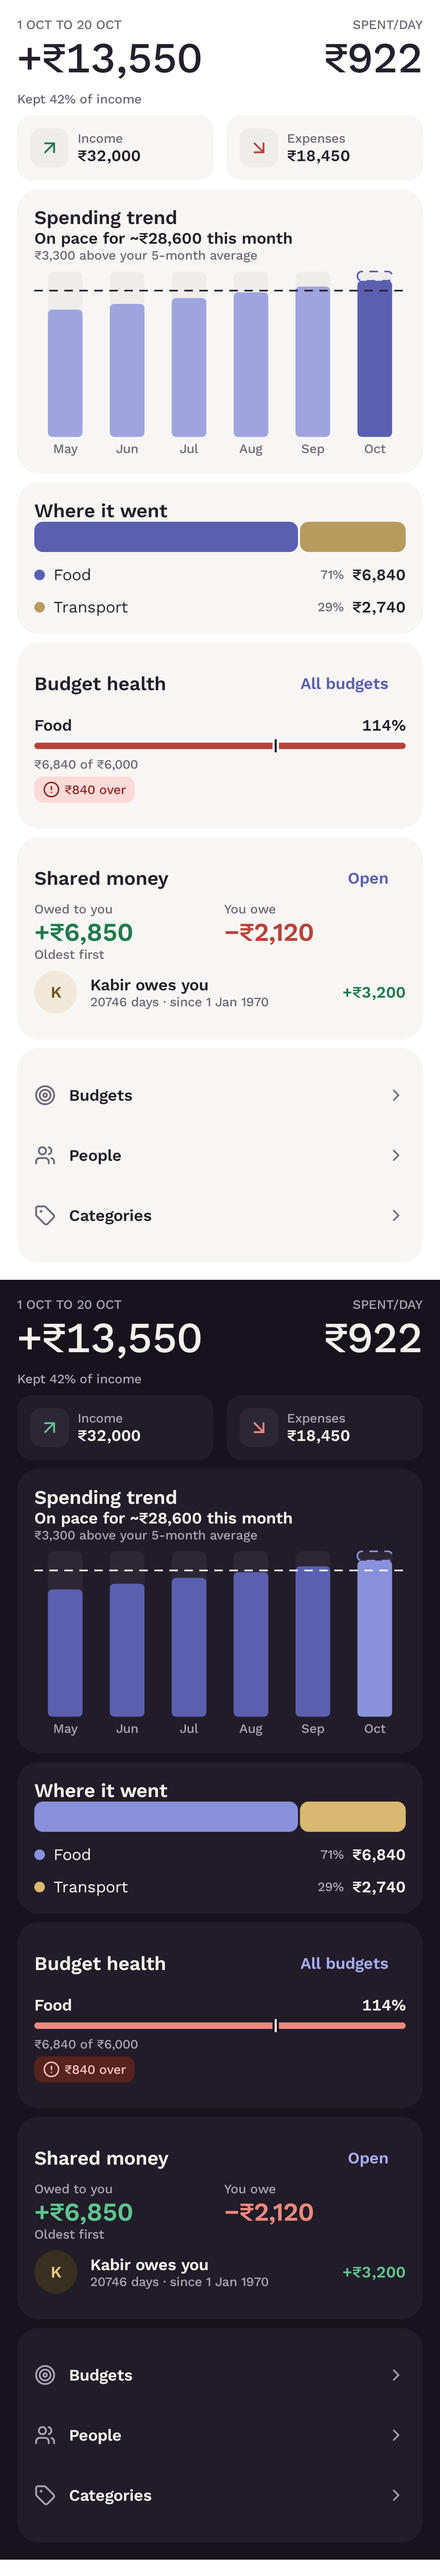
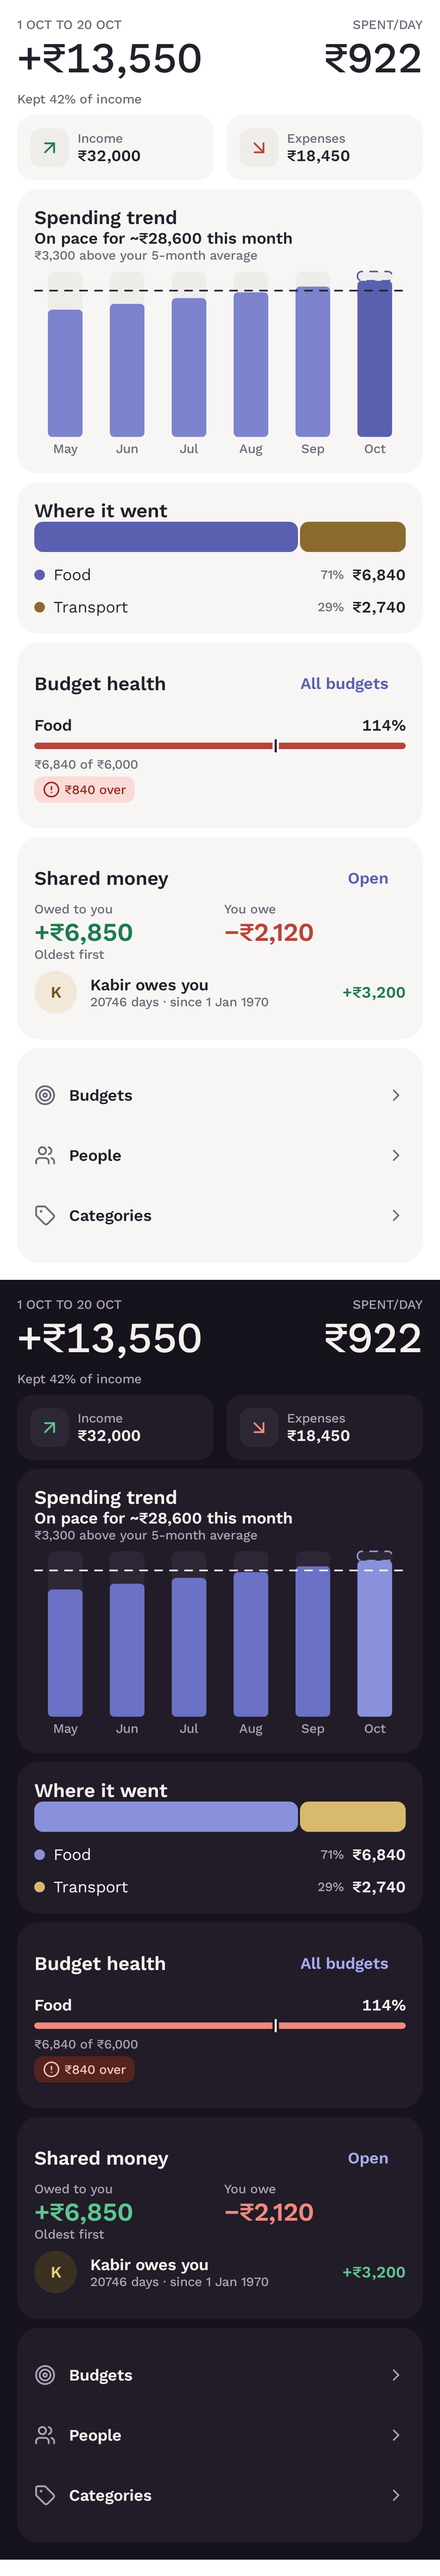
Accessibility: chart contrast and large-font checks (#70)
- Chart colours reach 3:1 in all four palettes, with a test
- Large-font (200%) screenshots of six screens added to the screenshot tests
- Transactions: the next-month arrow was pushed off the switcher at large font

diff --git a/app/src/main/java/com/saadm/zenith/ui/theme/Color.kt b/app/src/main/java/com/saadm/zenith/ui/theme/Color.kt
@@ -59,8 +59,8 @@ val ZenithLightColors = ZenithColors(
         AvatarTint(Color(0xFFDCEFE5), Color(0xFF17603D)),
     ),
     chartColors = listOf(
-        Color(0xFF5A5FB0), Color(0xFFB79B5E), Color(0xFF9EA4DE),
-        Color(0xFFD8CBA8), Color(0xFFD9DBF3), Color(0xFFBDB7C6),
+        Color(0xFF5A5FB0), Color(0xFF8A6A2E), Color(0xFF7C82CC),
+        Color(0xFF9C5A0A), Color(0xFF1F7A4F), Color(0xFF6D6877),
     ),
 )
 
@@ -89,8 +89,8 @@ val ZenithDarkColors = ZenithColors(
         AvatarTint(Color(0xFF1F3B2E), Color(0xFF93DCB4)),
     ),
     chartColors = listOf(
-        Color(0xFF8A91DC), Color(0xFFD9B86F), Color(0xFF5A5FB0),
-        Color(0xFF8F7A4A), Color(0xFFCFD2F5), Color(0xFF6F677B),
+        Color(0xFF8A91DC), Color(0xFFD9B86F), Color(0xFF6B71C4),
+        Color(0xFFA08950), Color(0xFFCFD2F5), Color(0xFF7C7489),
     ),
 )
 
@@ -120,8 +120,8 @@ val ZenithMonochromeColors = ZenithColors(
         AvatarTint(Color(0xFFC4C4C3), Color(0xFF1B1B1B)),
     ),
     chartColors = listOf(
-        Color(0xFF1F1F1F), Color(0xFF5E5E5E), Color(0xFF8F8F8F),
-        Color(0xFFB9B9B8), Color(0xFFDADAD9), Color(0xFFE9E9E8),
+        Color(0xFF1F1F1F), Color(0xFF4A4A4A), Color(0xFF6E6E6E),
+        Color(0xFF3A3A3A), Color(0xFF808080), Color(0xFF5C5C5C),
     ),
 )
 
@@ -154,7 +154,7 @@ val ZenithMonochromeDarkColors = ZenithColors(
     ),
     chartColors = listOf(
         Color(0xFFF0F0F0), Color(0xFFB3B3B3), Color(0xFF8A8A8A),
-        Color(0xFF5E5E5E), Color(0xFF3C3C3C), Color(0xFF2A2A2A),
+        Color(0xFF767676), Color(0xFFD4D4D4), Color(0xFF9E9E9E),
     ),
 )
 

diff --git a/app/src/main/java/com/saadm/zenith/ui/transactions/TxnListScreen.kt b/app/src/main/java/com/saadm/zenith/ui/transactions/TxnListScreen.kt
@@ -1,5 +1,7 @@
 package com.saadm.zenith.ui.transactions
 
+import androidx.compose.foundation.layout.ExperimentalLayoutApi
+import androidx.compose.foundation.layout.FlowRow
 import androidx.compose.ui.res.painterResource
 import com.saadm.zenith.ui.components.Lu
 import com.saadm.zenith.ui.components.DayHeader
@@ -128,6 +130,7 @@ fun TransactionsScreen(
     }
 }
 
+@OptIn(ExperimentalLayoutApi::class)
 @Composable
 private fun TxnListContent(
     state: TxnListState,
@@ -158,8 +161,13 @@ private fun TxnListContent(
                 state.query.query?.let { text ->
                     ZenithTextField(text, onQuery, "Search note, category or person")
                 }
-                Row(verticalAlignment = Alignment.CenterVertically) {
-                    Column(Modifier.weight(1f)) {
+                // The count drops to its own line when the switcher needs the width.
+                FlowRow(
+                    modifier = Modifier.fillMaxWidth(),
+                    horizontalArrangement = Arrangement.SpaceBetween,
+                    itemVerticalAlignment = Alignment.CenterVertically
+                ) {
+                    Column {
                         if (state.query.allMonths) {
                             Text("All months", style = ZenithType.bodyStrong, color = colors.ink)
                         } else {

diff --git a/app/src/testDebug/java/com/saadm/zenith/ui/ScreenshotTest.kt b/app/src/testDebug/java/com/saadm/zenith/ui/ScreenshotTest.kt
@@ -12,6 +12,7 @@ import com.saadm.zenith.ui.transactions.TxnListPreview
 import org.junit.Test
 import org.junit.runner.RunWith
 import org.robolectric.RobolectricTestRunner
+import org.robolectric.RuntimeEnvironment
 import org.robolectric.annotation.Config
 import org.robolectric.annotation.GraphicsMode
 
@@ -48,4 +49,16 @@ class ScreenshotTest {
 
     @Test
     fun settings() = shot("settings") { SettingsPreview() }
+
+    @Test
+    fun largeFont() {
+        sessionQuipSalt = 0
+        RuntimeEnvironment.setFontScale(2f)
+        shot("large-overview") { OverviewPreview() }
+        shot("large-insights") { InsightsPreview() }
+        shot("large-budgets") { BudgetsPreview() }
+        shot("large-settings") { SettingsPreview() }
+        shot("large-transactions") { TxnListPreview() }
+        shot("large-people") { PeoplePreview() }
+    }
 }

diff --git a/app/src/test/java/com/saadm/zenith/ui/theme/ContrastTest.kt b/app/src/test/java/com/saadm/zenith/ui/theme/ContrastTest.kt
@@ -42,4 +42,17 @@ class ContrastTest {
         }
         assertEquals(emptyList<String>(), failures)
     }
+
+    // Bars, lines and share segments are graphics: WCAG asks 3:1 against what they sit on.
+    @Test
+    fun chartColoursStandOutFromTheirBackground() {
+        val failures = listOf(ZenithLightColors, ZenithDarkColors, ZenithMonochromeColors, ZenithMonochromeDarkColors)
+            .flatMapIndexed { palette, c ->
+                c.chartColors.flatMapIndexed { i, colour ->
+                    listOf(c.surface, c.surfaceRaised).filter { ratio(colour, it) < 3f }
+                        .map { "palette $palette c${i + 1} ${ratio(colour, it)}" }
+                }
+            }
+        assertEquals(emptyList<String>(), failures)
+    }
 }

diff --git a/app/src/main/java/com/saadm/zenith/ui/components/MonthSelector.kt b/app/src/main/java/com/saadm/zenith/ui/components/MonthSelector.kt
@@ -51,6 +51,7 @@ fun MonthSwitcher(
             style = ZenithType.bodyStrong,
             color = colors.ink,
             modifier = Modifier
+                .weight(1f, fill = false)
                 .then(
                     if (onLabelClick == null) Modifier
                     else Modifier.clickable(onClickLabel = "Choose month", role = Role.Button, onClick = onLabelClick)
